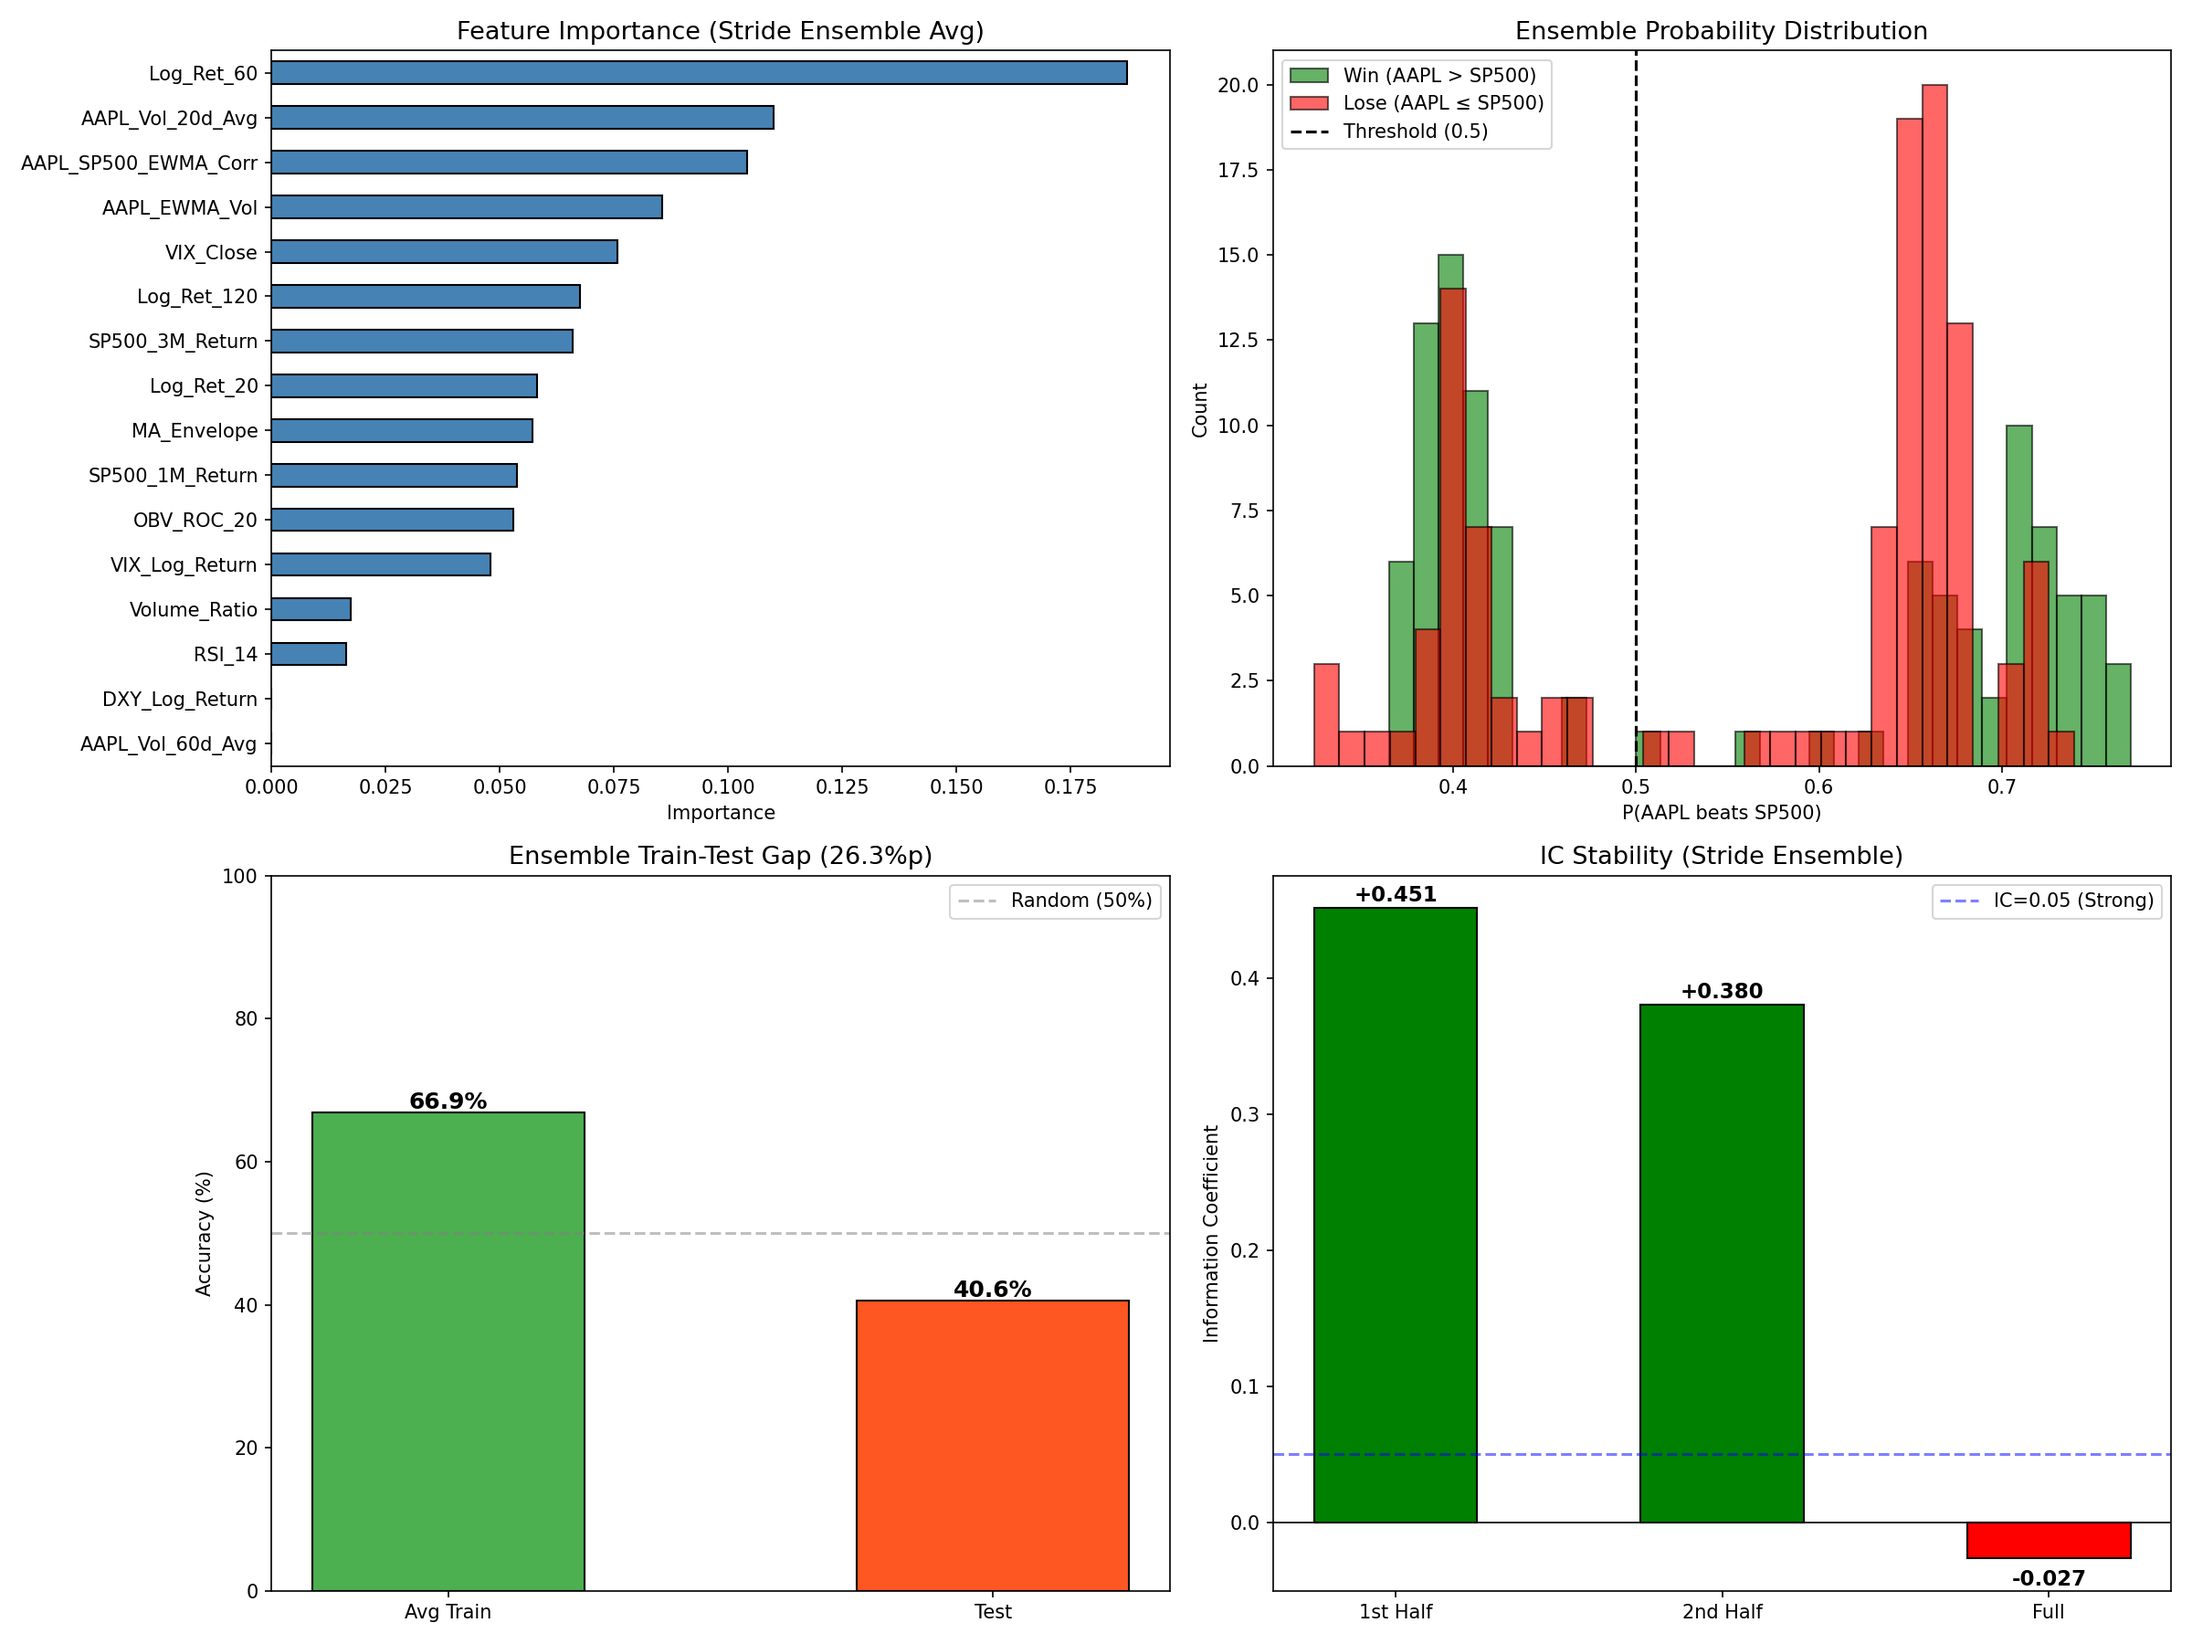
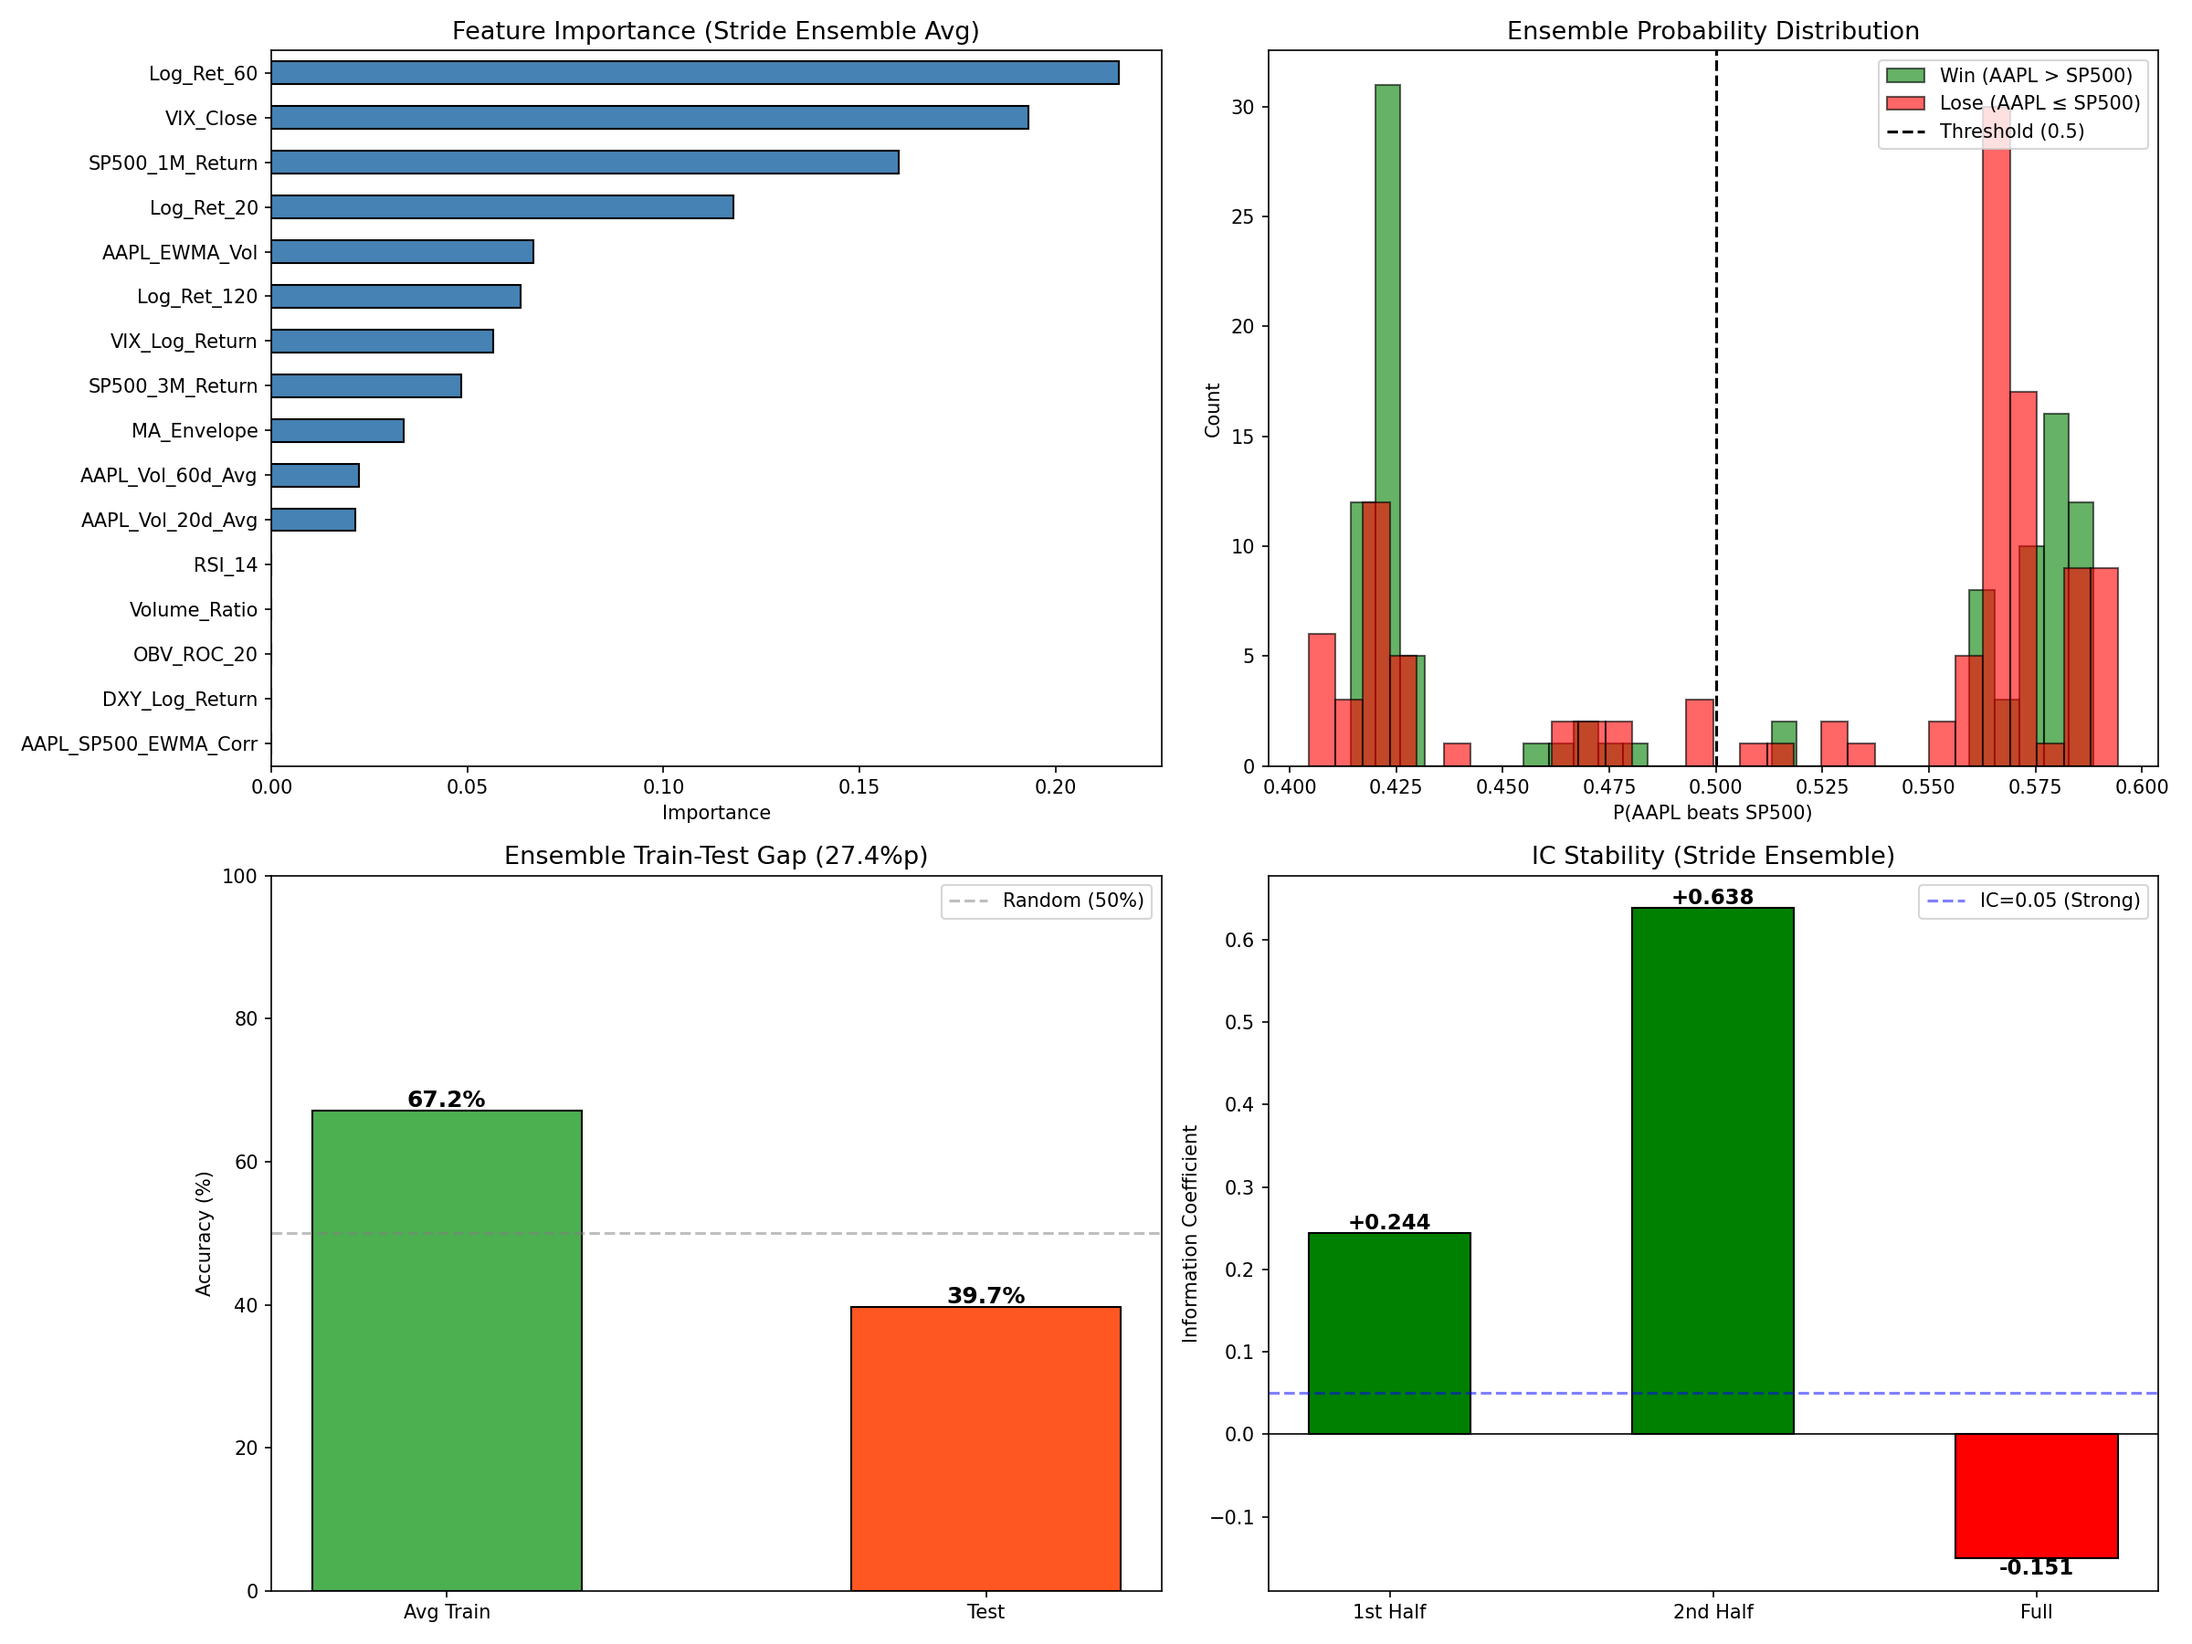
Modify the model

diff --git a/Classification/split_dataset.py b/Classification/split_dataset.py
@@ -77,21 +77,12 @@ def _calc_spw(y):
 
 def calculate_sample_weight(df):
     """
-    Alpha(초과수익)의 절대크기에 비례하여 가중치를 부여합니다.
-    Target_Class가 1인 경우(확실한 승리) 더 강하게 학습하도록 유도합니다.
+    샘플 가중치 계산 함수
+    
+    기존: Alpha_Diff(초과수익) 절댓값에 비례하여 가중치 부여
+    변경: 모든 샘플에 동일한 가중치(1.0) 부여 (Sample Weighting 제거 효과)
     """
-    if "Target_AAPL_3M" not in df.columns or "Target_SP500_3M" not in df.columns:
-        return np.ones(len(df))
-
-    # 3개월 누적 수익률 차이 (Alpha)
-    alpha = abs(df['Target_AAPL_3M'] - df['Target_SP500_3M'])
-    
-    # 기본 가중치 1.0 + 알파 보너스
-    # 예: 알파가 10%면 가중치 = 1.0 + (0.10 * 20) = 3.0
-    # multiplier(20)은 조절 가능 (너무 크면 아웃라이어에 휘둘림)
-    weights = 1.0 + (alpha * 20.0)
-    
-    return weights
+    return np.ones(len(df))
 
 
 def split_dataset():
@@ -155,10 +146,13 @@ def split_dataset():
     # ★ Final Fit 시에는 Train + Val 합쳐서 학습하므로, 비중도 합친 데이터 기준이어야 함
     spw = _calc_spw(final_train_df["Target_Class"])
 
-    # ── Sample Weights 계산 ──
-    train_weights = calculate_sample_weight(train_df)
-    val_weights = calculate_sample_weight(val_df)
-    final_train_weights = calculate_sample_weight(final_train_df)
+    # ── Sample Weights Calculation (All 1.0 now, but structure kept for compatibility)
+    # pd.Series로 변환하여 iloc 사용 가능하게 함
+    train_weights = pd.Series(calculate_sample_weight(train_df), index=train_df.index)
+    val_weights = pd.Series(calculate_sample_weight(val_df), index=val_df.index)
+    
+    # Final Train Weights
+    final_train_weights = pd.Series(calculate_sample_weight(final_train_df), index=final_train_df.index)
 
     # ── 결과 구성 ──
     split = DataSplit(

diff --git a/Classification/optimize_hyperparams.py b/Classification/optimize_hyperparams.py
@@ -57,15 +57,15 @@ def create_objective(full_df, feature_cols):
     def objective(trial):
         # 파라미터 탐색 공간 (Balanced Strategy)
         params = {
-            "max_depth": trial.suggest_int("max_depth", 1, 1), # Stump
+            "max_depth": trial.suggest_int("max_depth", 1, 3), # 깊이 1~3 (복잡도 증가)
             "learning_rate": trial.suggest_float("learning_rate", 0.05, 0.20, log=True),
-            "n_estimators": trial.suggest_int("n_estimators", 40, 80),
+            "n_estimators": trial.suggest_int("n_estimators", 30, 100),
             "min_child_weight": trial.suggest_int("min_child_weight", 10, 30),
-            "gamma": trial.suggest_float("gamma", 0.1, 1.0),
-            "reg_alpha": trial.suggest_float("reg_alpha", 0.1, 2.0),
+            "gamma": trial.suggest_float("gamma", 0.1, 2.0),
+            "reg_alpha": trial.suggest_float("reg_alpha", 0.1, 5.0),
             "reg_lambda": trial.suggest_float("reg_lambda", 1.0, 10.0),
-            "subsample": trial.suggest_float("subsample", 0.6, 0.9),
-            "colsample_bytree": trial.suggest_float("colsample_bytree", 0.6, 0.9),
+            "subsample": trial.suggest_float("subsample", 0.5, 0.8),
+            "colsample_bytree": trial.suggest_float("colsample_bytree", 0.5, 0.8),
             "random_state": 42,
             "eval_metric": "logloss",
             "early_stopping_rounds": 20,
